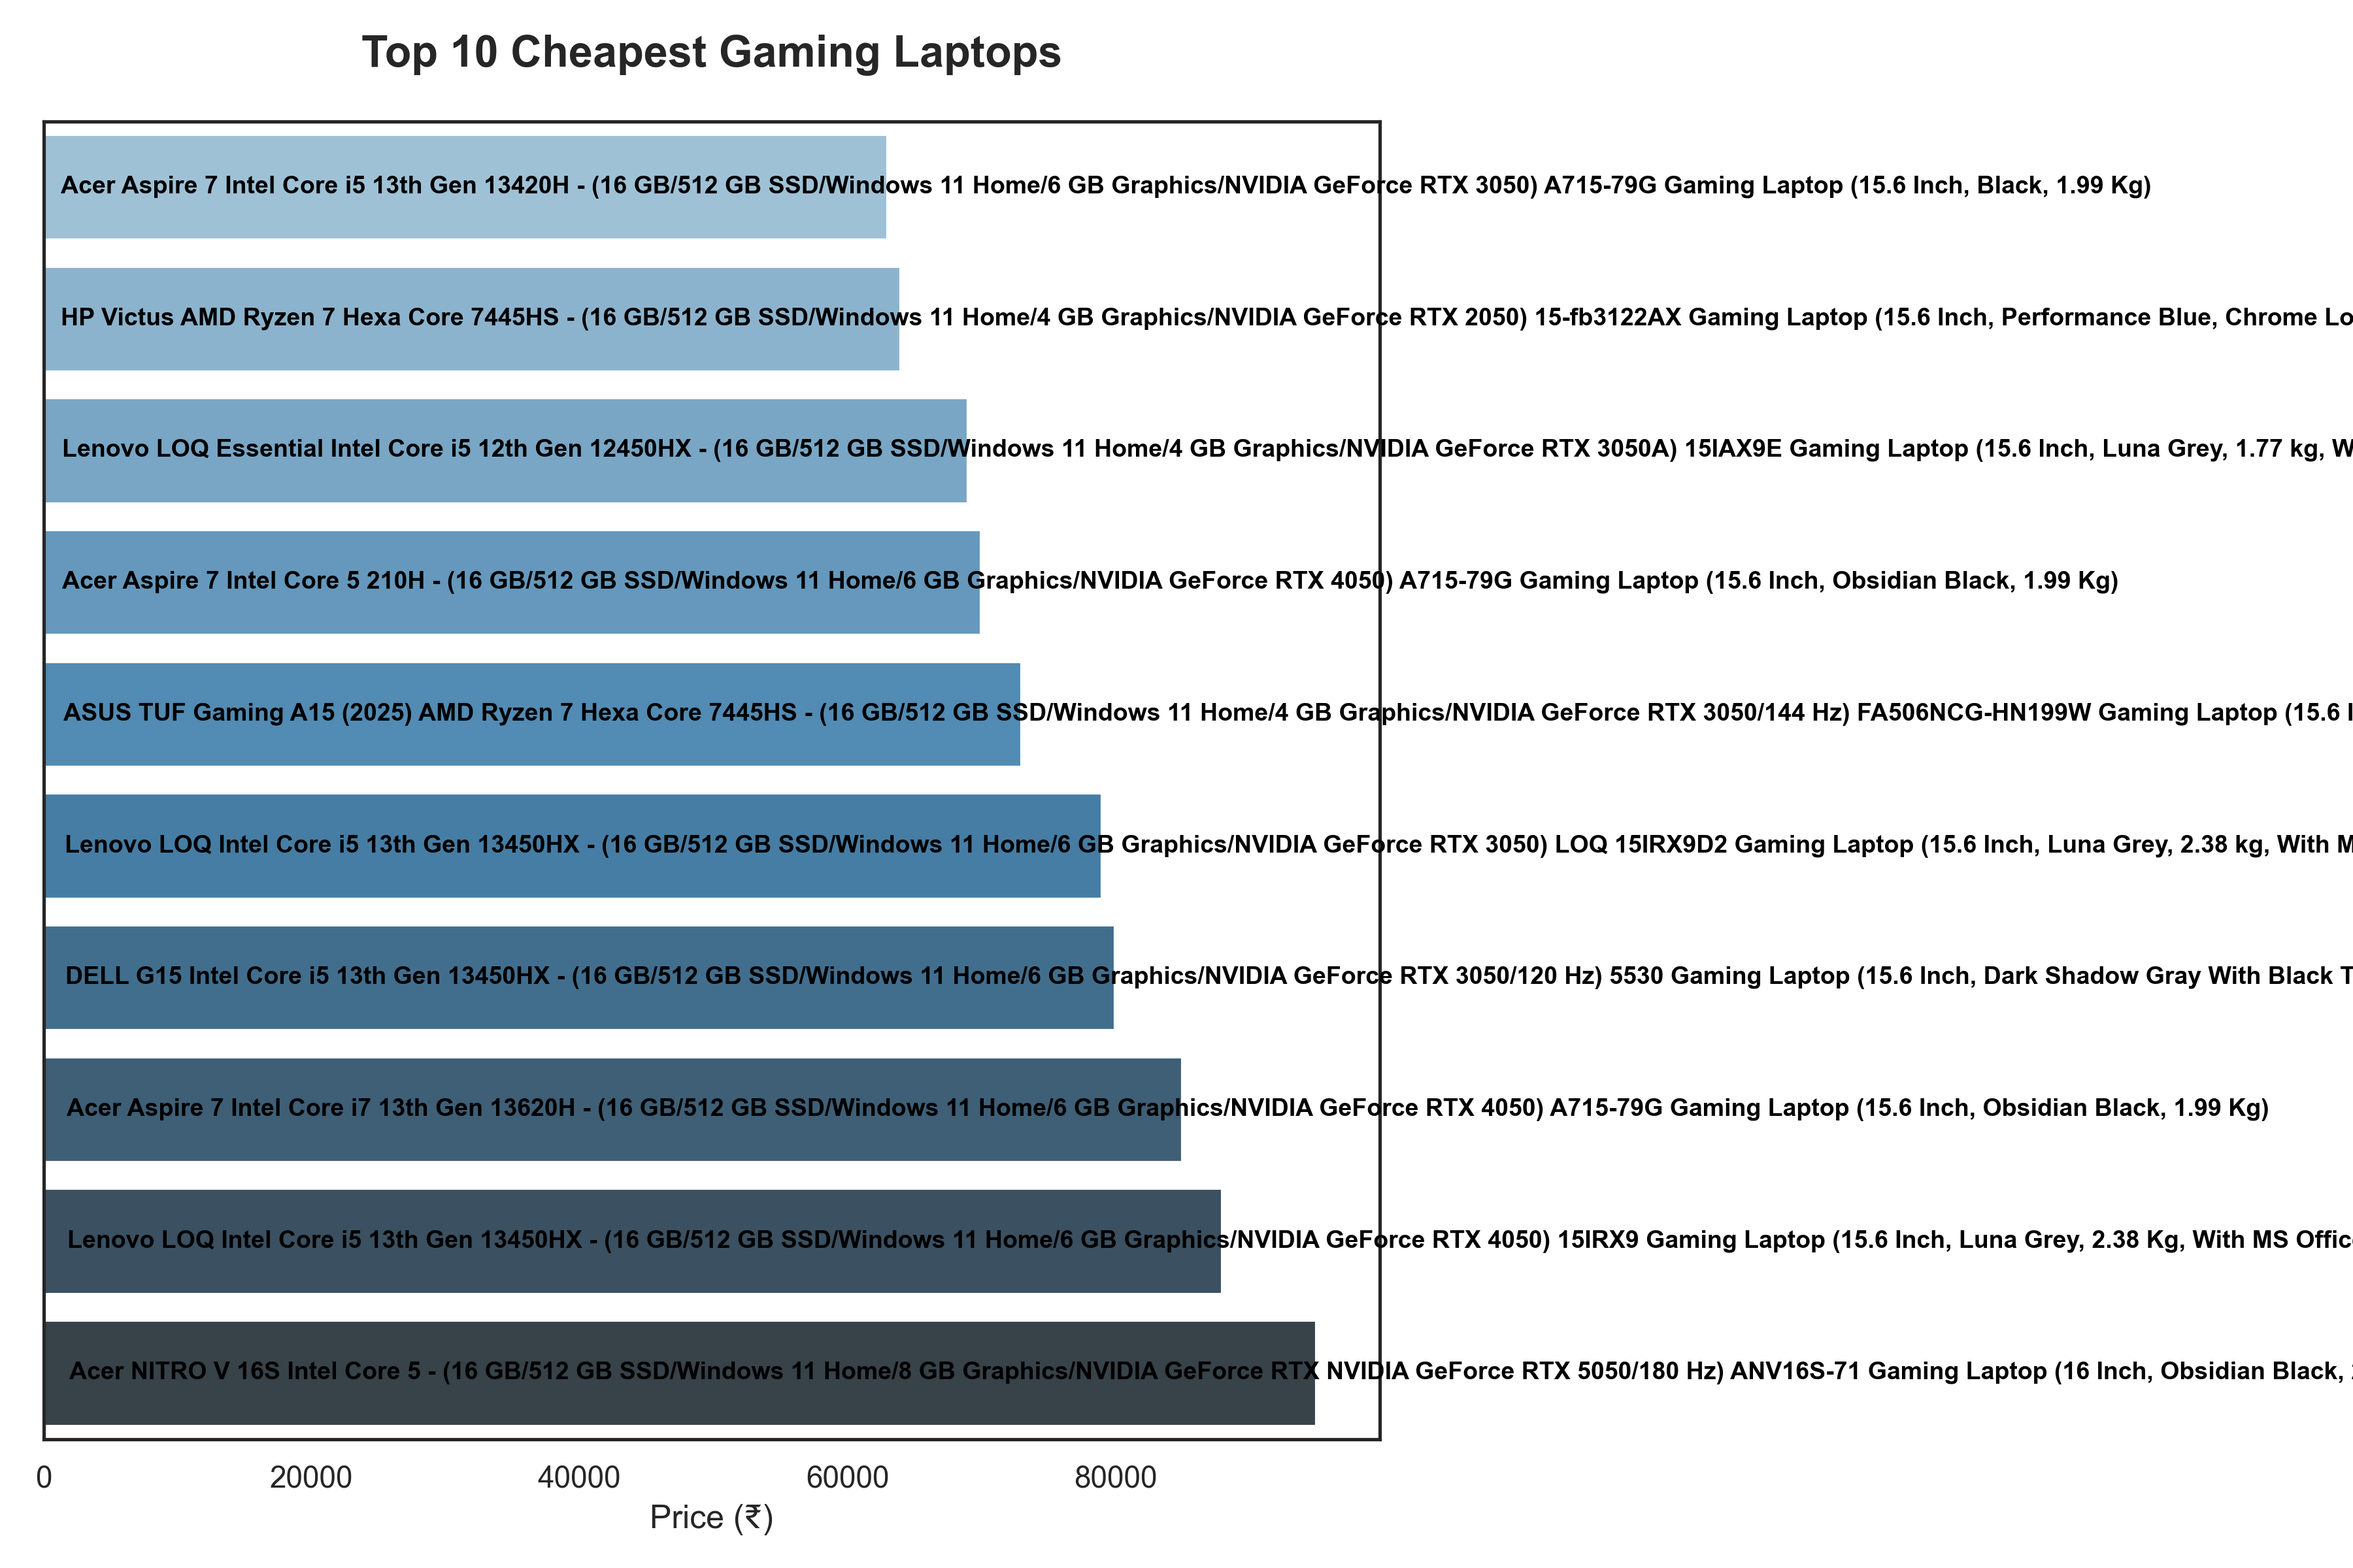
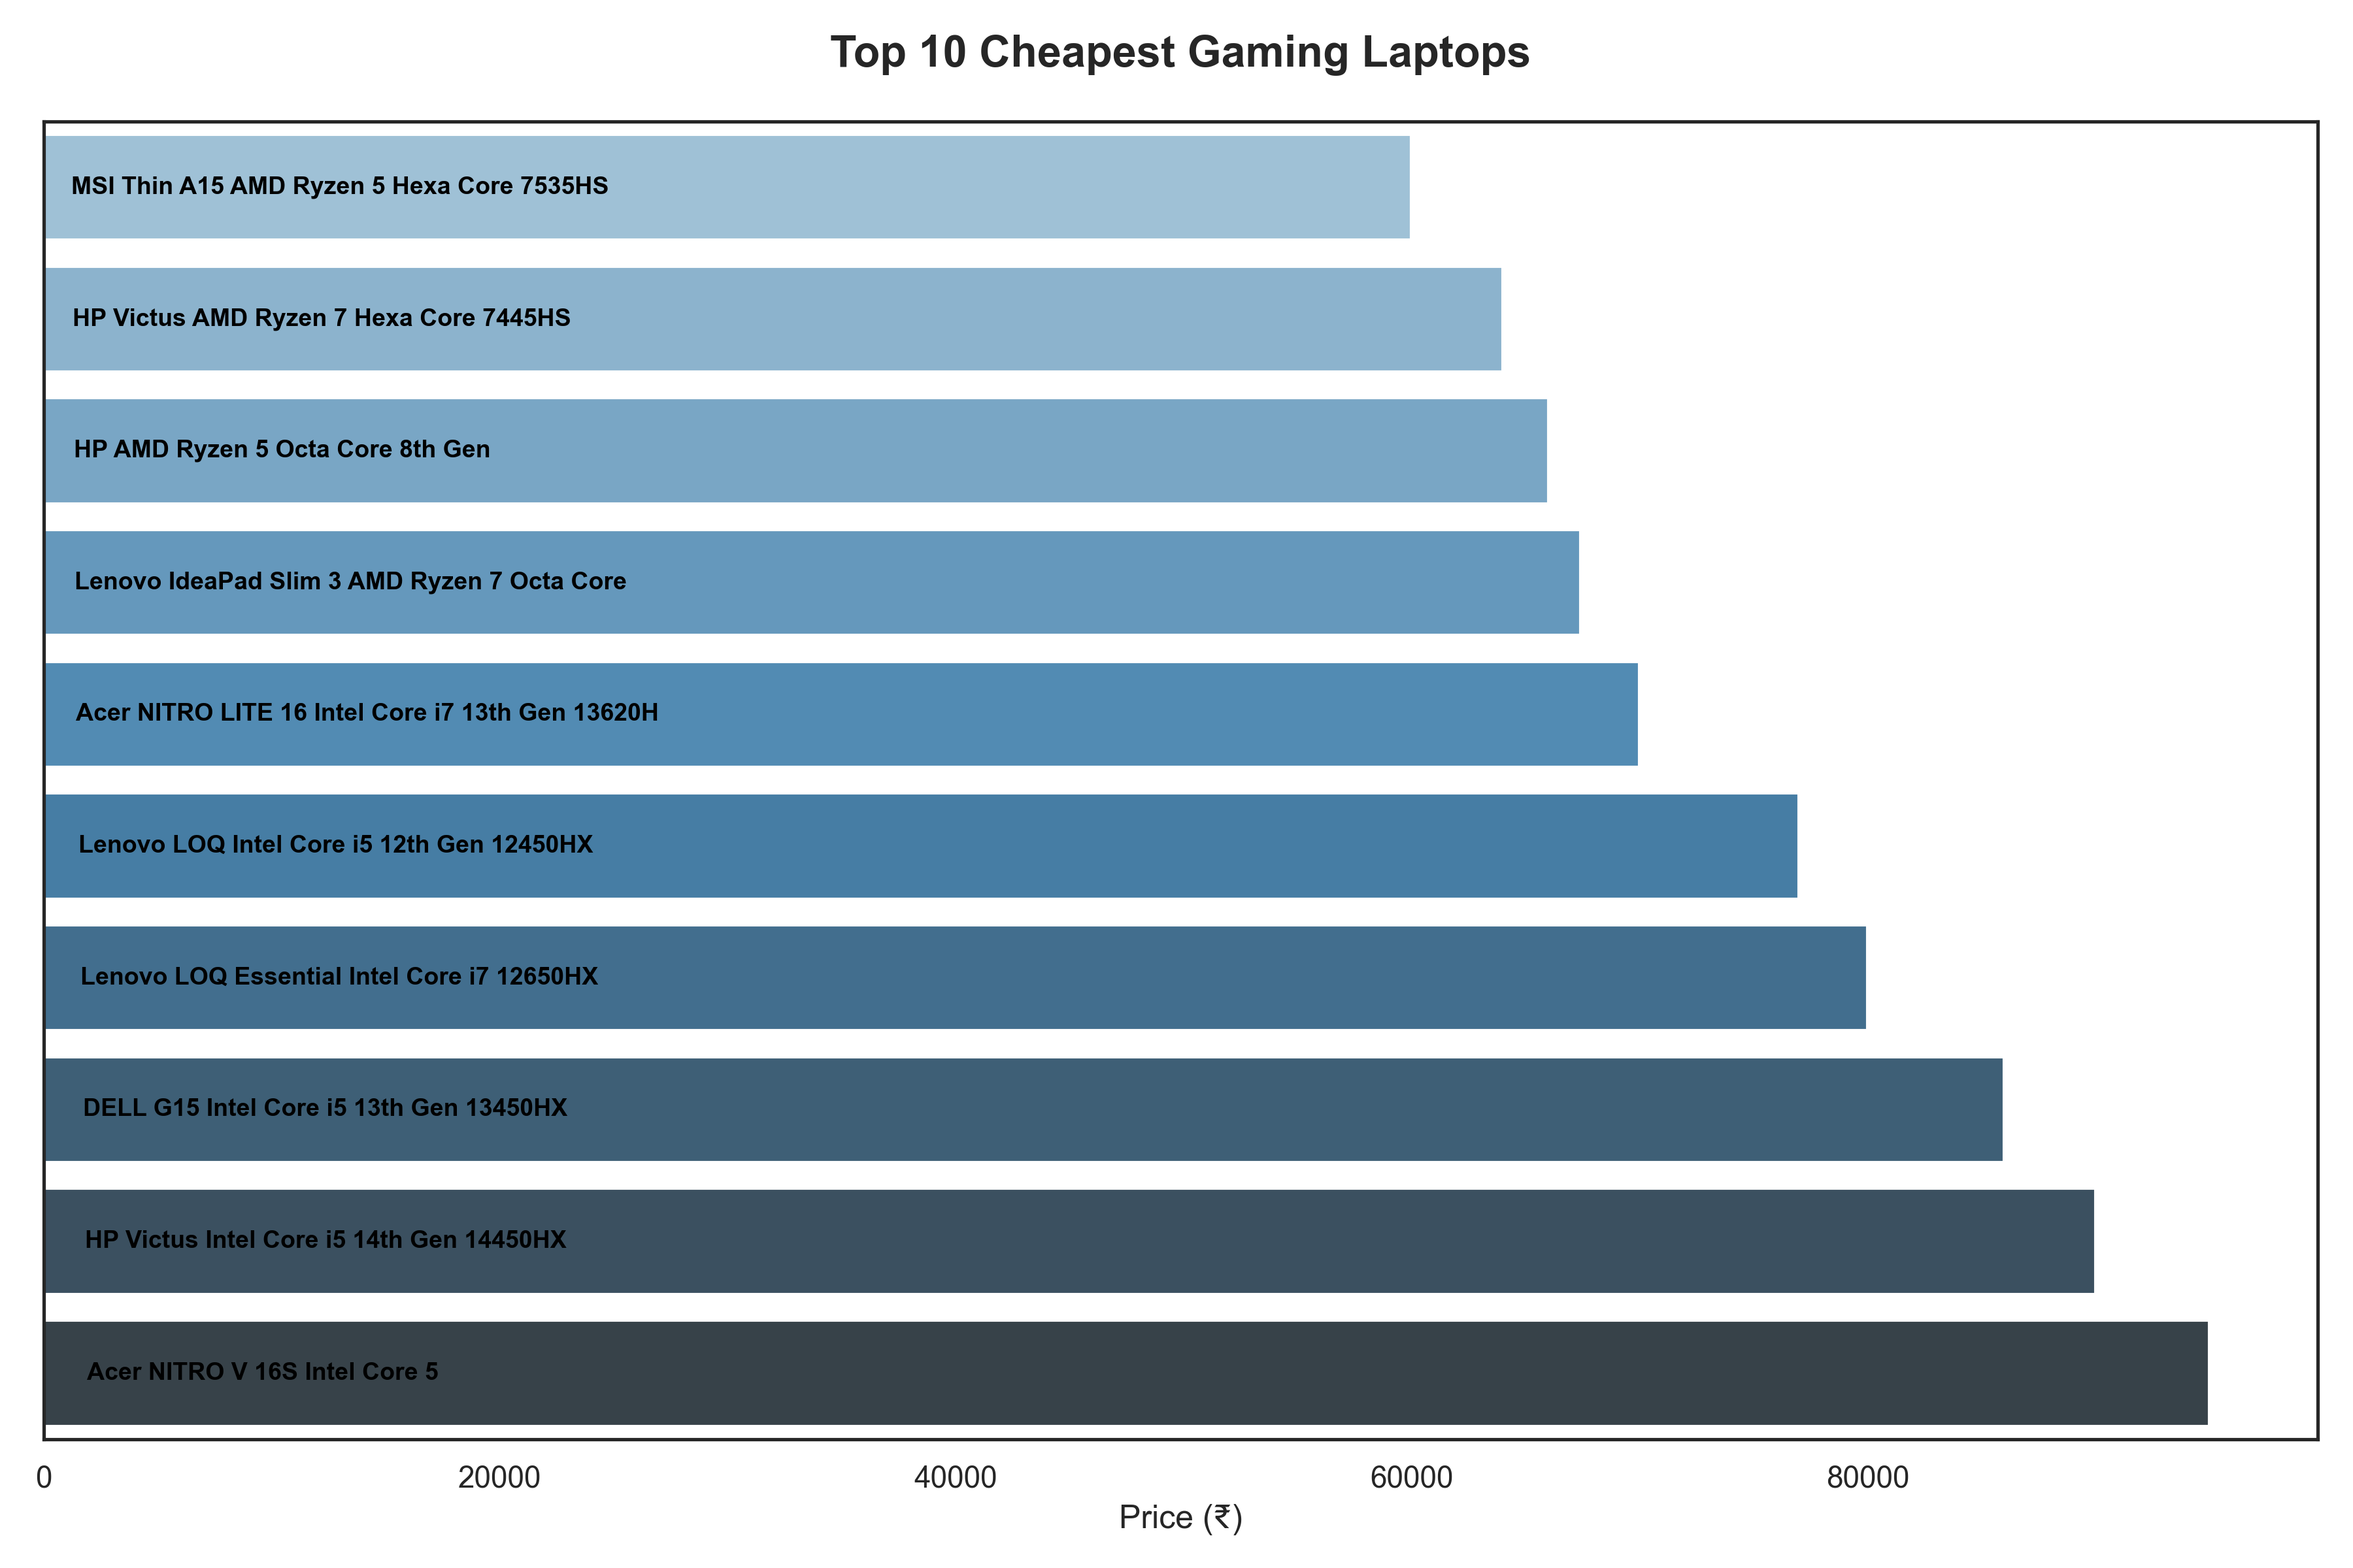
Update data and charts

diff --git a/scraper.py b/scraper.py
@@ -25,6 +25,8 @@ def scrape_data():
         new_soup = BeautifulSoup(new_webpage.content, "html.parser")
         try:
             title = new_soup.find("span", attrs = {'class':"LMizgS"}).text.strip()
+            title = title.split("-")
+            title = title[0]
             price = new_soup.find("div",attrs={'class': "hZ3P6w bnqy13"}).text.strip()
             price = price[1::]
             price = price.split(",")
